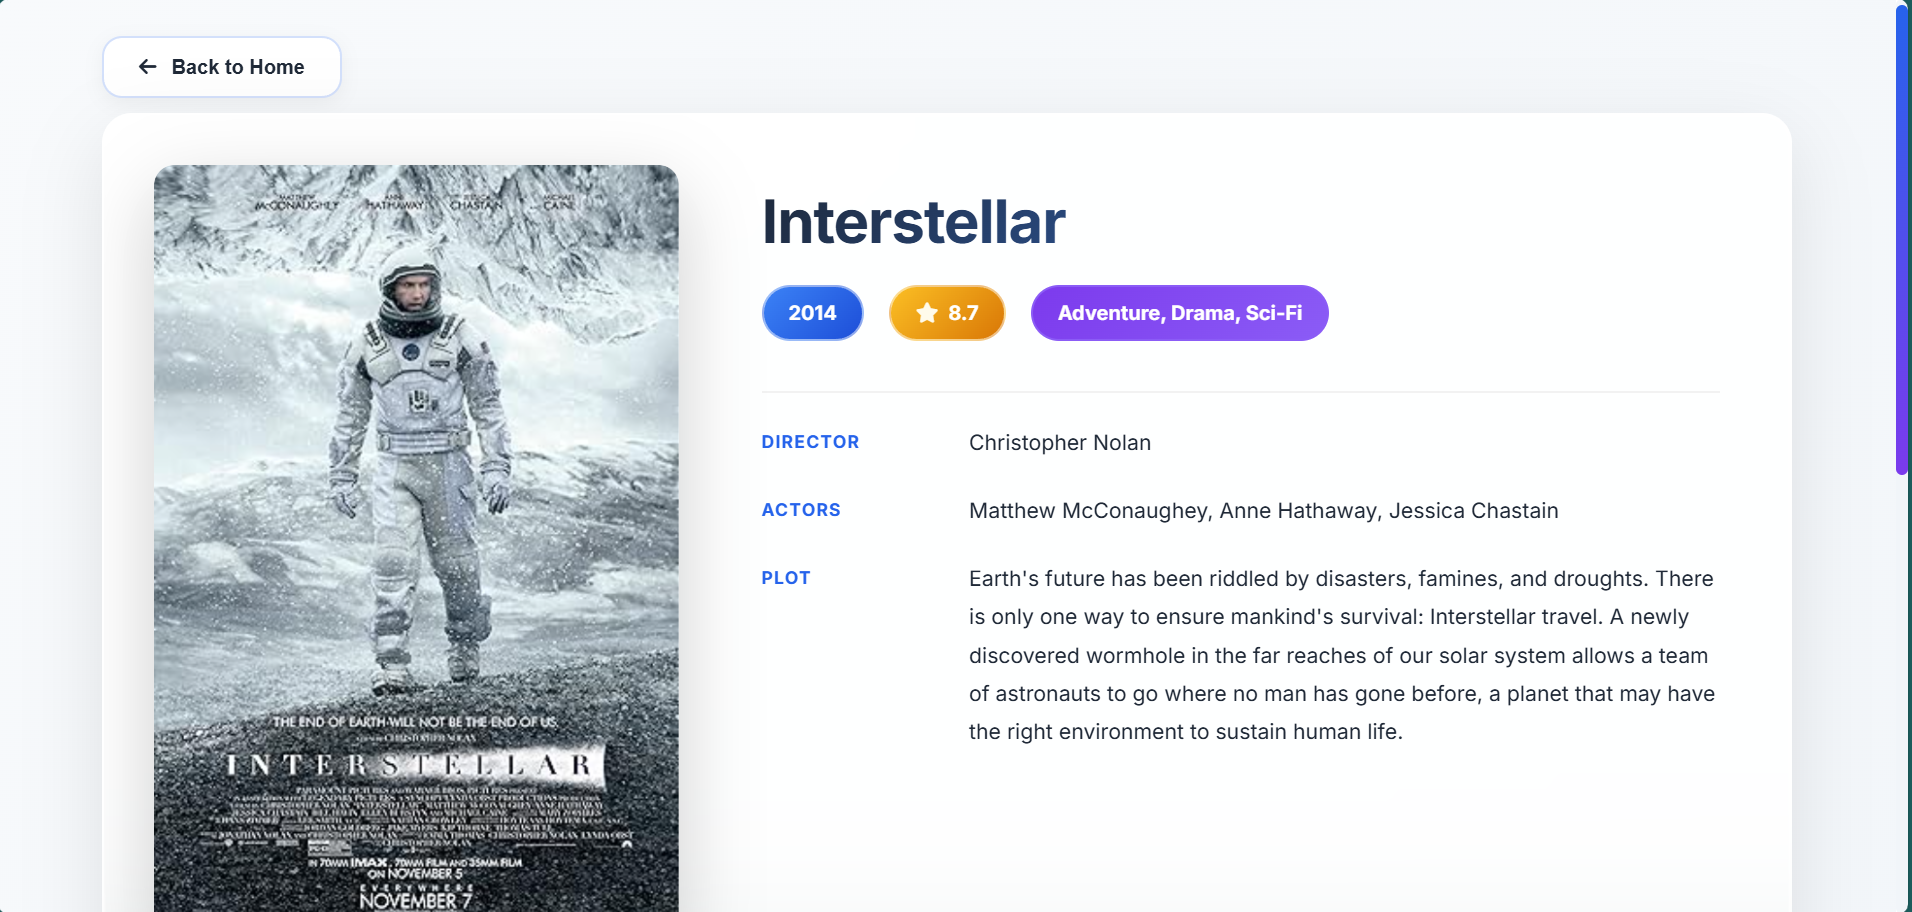
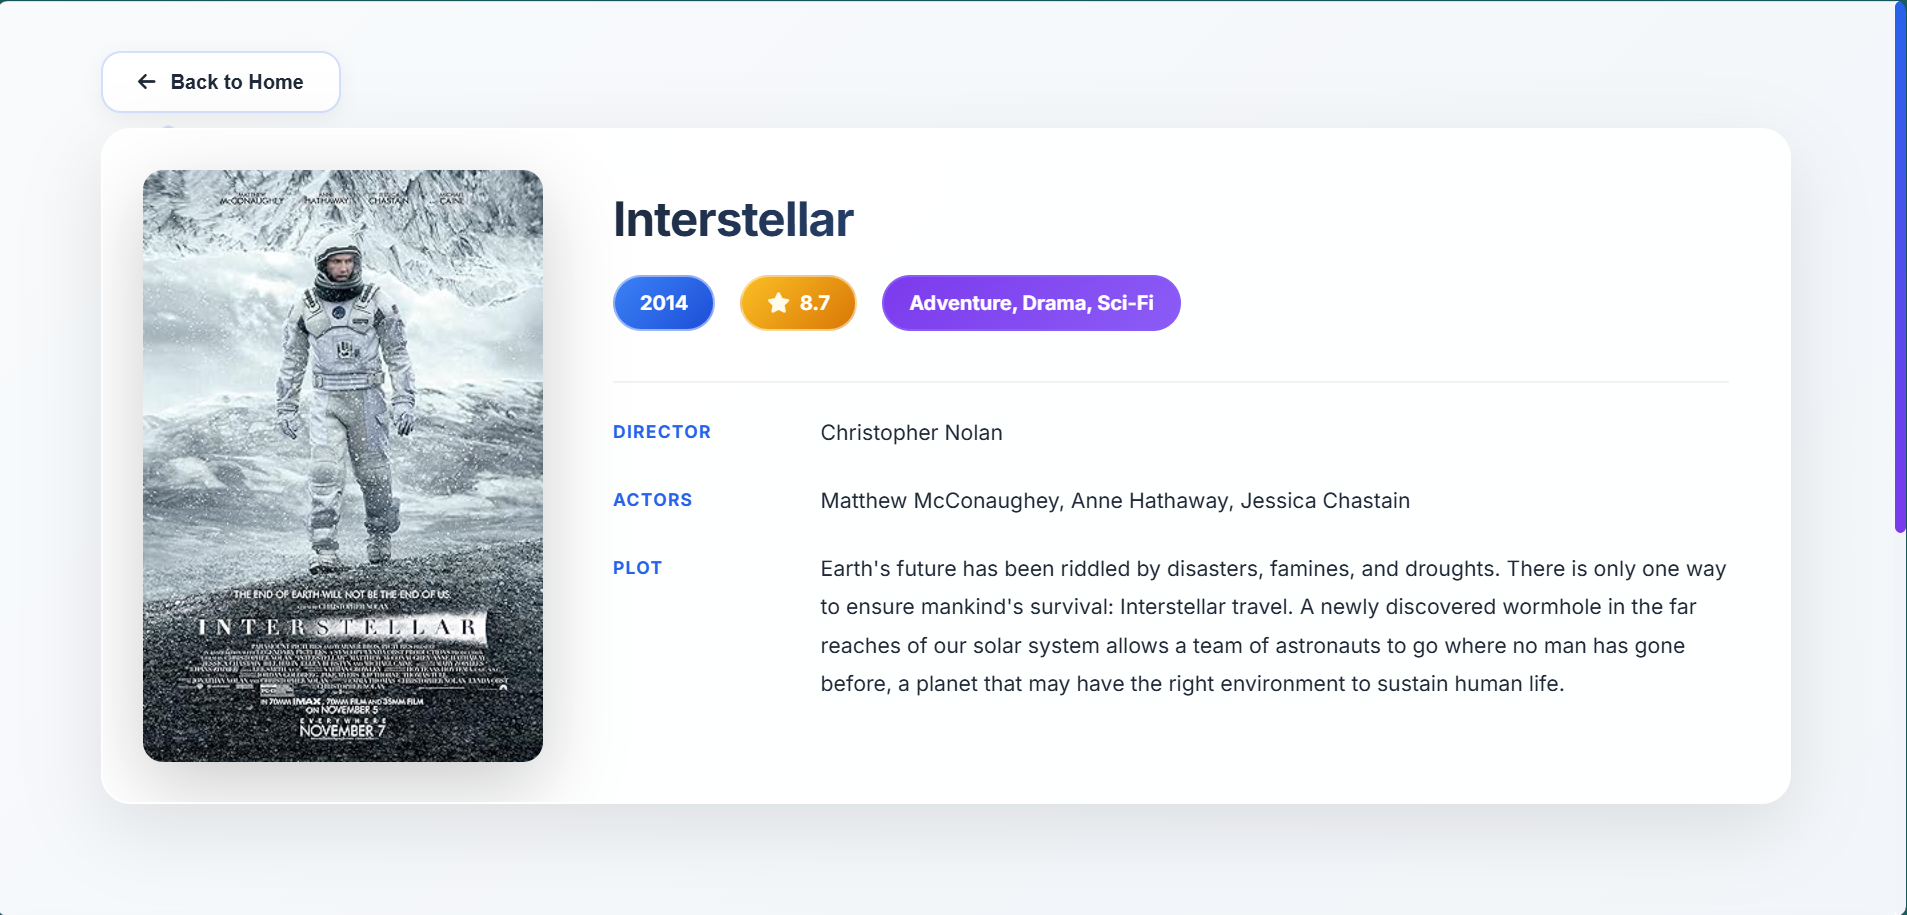
update

diff --git a/css/style.css b/css/style.css
@@ -88,7 +88,7 @@ body {
 
 .site-title .logo-text{
   font-weight:900;
-  font-size:36px;
+  font-size:40px;
   color:var(--text-blue);
   line-height:1;
   letter-spacing:0.2px;
@@ -112,7 +112,7 @@ body {
 }
 
 .search-title {
-  font-size: 64px;
+  font-size: 68px;
   font-weight:bold;
   margin-top: 40px;
   margin-bottom: 20px;
@@ -136,7 +136,7 @@ body {
 .search-container {
   display: flex;
   max-width: 800px;
-  margin: 0 auto 40px;
+  margin: 95px auto 40px;
   gap: 15px;
 }
 
@@ -394,9 +394,10 @@ body {
 
 .movie-title {
   font-size: 18px;
+  margin-top: -10px;
   font-weight: 800;
   color: var(--text-primary);
-  line-height: 1.3;
+  line-height: 1.1;
   display: -webkit-box;
   -webkit-line-clamp: 2;
   -webkit-box-orient: vertical;
@@ -500,8 +501,8 @@ body {
 
 .movie-details-container {
   display: grid;
-  grid-template-columns: 420px 1fr;
-  gap: 50px;
+  grid-template-columns: 320px 1fr;
+  gap: 40px;
   background: rgba(255, 255, 255, 0.95);
   backdrop-filter: blur(40px);
   border-radius: var(--radius-lg);
@@ -510,7 +511,7 @@ body {
   box-shadow: 
     0 20px 60px rgba(0, 0, 0, 0.1),
     0 0 0 1px rgba(255, 255, 255, 0.8) inset;
-  padding: 40px;
+  padding: 32px;
 }
 
 .movie-poster-large {
@@ -523,7 +524,7 @@ body {
 .movie-poster-large img {
   width: 100%;
   height: 100%;
-  min-height: 560px;
+  min-height: 420px;
   object-fit: cover;
   display: block;
   border-radius: var(--radius-md);
@@ -542,7 +543,7 @@ body {
 }
 
 .detail-title {
-  font-size: 48px;
+  font-size: 38px;
   margin-bottom: 6px;
   font-weight: 900;
   color: var(--text-primary);
@@ -989,12 +990,12 @@ body {
   }
   
   .movie-details-container {
-    grid-template-columns: 360px 1fr;
-    gap: 28px;
+    grid-template-columns: 280px 1fr;
+    gap: 24px;
   }
   
   .detail-title {
-    font-size: 36px;
+    font-size: 32px;
   }
 }
 
@@ -1032,11 +1033,11 @@ body {
   }
   
   .movie-poster-large img {
-    min-height: 420px;
+    min-height: 360px;
   }
   
   .detail-title {
-    font-size: 30px;
+    font-size: 28px;
   }
   
   .detail-block {

diff --git a/index.html b/index.html
@@ -198,15 +198,15 @@
                 <h3 class="footer-heading">Quick Links</h3>
                 <ul class="footer-links">
                     <li><a href="#" class="nav-link" data-page="home">Home</a></li>
-                    <li><a href="#" class="nav-link">Search Results</a></li>
-                    <li><a href="#" class="nav-link">IMDb ID Search</a></li>
+                    <li><a href="" class="nav-link" data-page="home">Search Results</a></li>
+                    <li><a href="" class="nav-link" data-page="home">IMDb ID Search</a></li>
                 </ul>
             </div>
 
             <div class="footer-section">
                 <h3 class="footer-heading">Popular Categories</h3>
                 <ul class="footer-links">
-                    <li><a href="#" class="keyword-link" data-keyword="action">Action</a></li>
+                    <li><a href="#" class="keyword-link" data-keyword="action">Action</li>
                     <li><a href="#" class="keyword-link" data-keyword="comedy">Comedy</a></li>
                     <li><a href="#" class="keyword-link" data-keyword="drama">Drama</a></li>
                     <li><a href="#" class="keyword-link" data-keyword="sci-fi">Sci-Fi</a></li>
